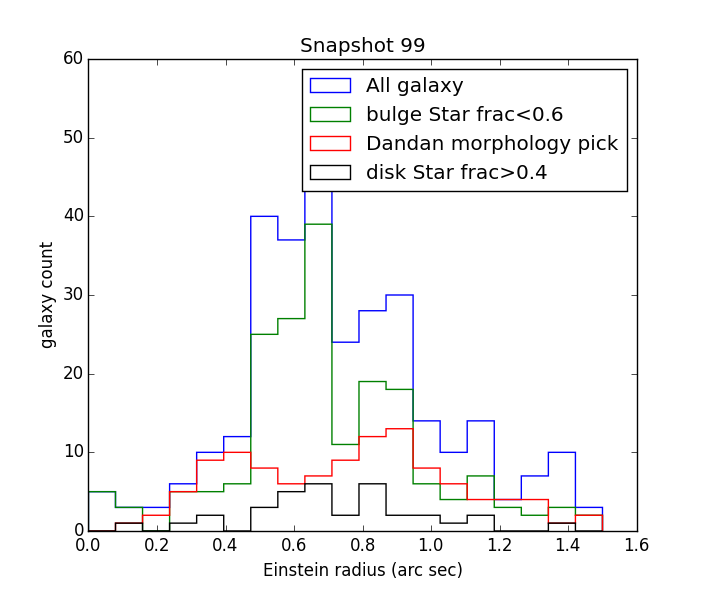
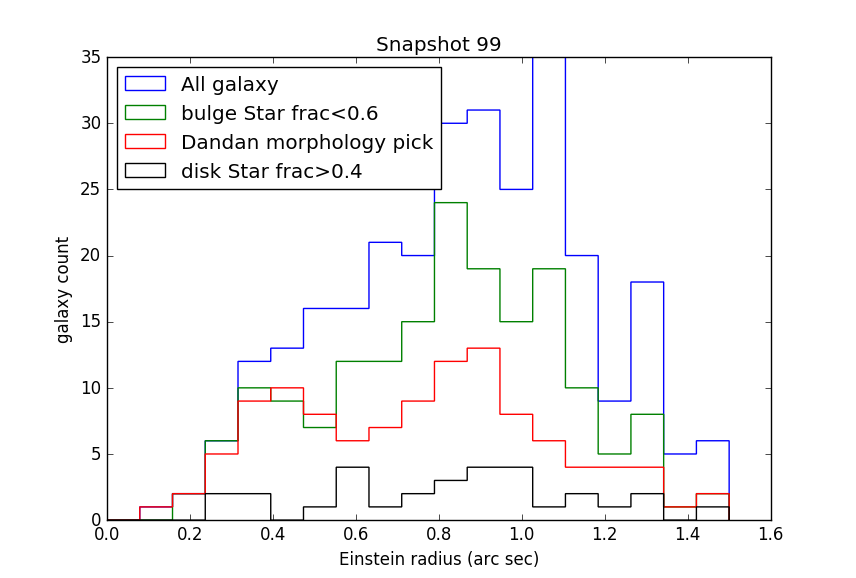
dan dan catalog full readout complete

diff --git a/python/Substructure/dan_crosscheck.py b/python/Substructure/dan_crosscheck.py
@@ -8,7 +8,8 @@ ssNumber = 99
 Snapshot_num = 'Snapshot_'+str(ssNumber)
 
 DanID = np.loadtxt('JenWei_table_disk_in_x.dat',dtype = 'int',unpack=True, usecols=[0])
-Dan_re = np.loadtxt('JenWei_table_disk_in_x.dat',dtype = 'float',unpack=True, usecols=[1])
+DanID.sort()
+#Dan_re = np.loadtxt('JenWei_table_disk_in_x.dat',dtype = 'float',unpack=True, usecols=[1])
 
 catalog = basePath+'/kinematics_'+str(ssNumber)+'.dat'
 GalaxyID = np.loadtxt(catalog,dtype = 'int',unpack=True, usecols=[0])
@@ -27,42 +28,55 @@ catalog_re = basePath+'/GalaxyRe_'+str(ssNumber)+'_x.dat'
 
 Galaxy_re = np.loadtxt(catalog_re,dtype='float',unpack=True,usecols=[1])
 
+## Dandan's full catalog
+
+catalog3 = basePath+'/Dandan_Lens'+str(ssNumber)+'.dat'
+LensID = np.loadtxt(catalog3,dtype = 'int',unpack=True, usecols=[0])
+Re = np.loadtxt(catalog3,dtype='float',unpack=True,usecols=[3])
+DMfrac = np.loadtxt(catalog3,dtype='float',unpack=True,usecols=[4])
+Mass = np.loadtxt(catalog3,dtype='float',unpack=True,usecols=[1])/0.704
+
 
 ''' cosmopara '''
 class cosmopara:
 	h = 0.704
 	OM = 0.27
 
-## Mass selection to Dandan's picl
+## Mass selection to Dandan's pick
+## also find DMfrac
 
-Dan_ms = []
-bulge_dan = []
-disk_dan = []
-Dan_V = []
-Dan_K =[]
-Dan2_re = []
+## now ID is sorted
+
+id_i = 11625
+id_e = 207298
+
+DanID_mc = np.intersect1d(DanID[DanID>=id_i],DanID[DanID<=id_e]) # mass cut
+
+# Re
+DanRe_mc = []
+DanMass_mc = []
+DanDMfrac_mc = []
+for i in range(LensID.size):
+	if LensID[i] in DanID_mc:
+		DanRe_mc.append(Re[i])
+		DanMass_mc.append(Mass[i])
+		DanDMfrac_mc.append(DMfrac[i])
+
+## Galaxy Re & DM frac
+
+# use index
+
+Galaxy_re = np.zeros(GalaxyID.size)*np.nan
+Galaxy_DMfrac = np.zeros(GalaxyID.size)*np.nan
 
 for i in range(GalaxyID.size):
-	if GalaxyID[i] in DanID:
-		Dan_ms.append(Galaxy_ms[i])
-		bulge_dan.append(bulge_frac[i])
-		disk_dan.append(disk_frac[i])
-		Dan_V.append(Galaxy_V[i])
-		Dan_K.append(Galaxy_K[i])
+	if GalaxyID[i] in LensID:
+		idx = list(LensID).index(GalaxyID[i])
+		Galaxy_re[i] = Re[idx]
+		Galaxy_DMfrac[i] = DMfrac[idx]
 
-print len(Dan_ms)
-
-for i in range(DanID.size):
-	if DanID[i] in GalaxyID:
-		Dan2_re.append(Dan_re[i])
-
-
-## find kinematic info & mass for Dandan's selection
-
-
-## mass
-
-## disk criteria
+print Galaxy_DMfrac.size, Galaxy_re.size
+#####
 
 cri = bulge_frac<0.6
 
@@ -72,22 +86,26 @@ print len(DiskID)
 disk_cri = disk_frac[cri]
 disk_ms = Galaxy_ms[cri]
 disk_re = Galaxy_re[cri]
+disk_DMfrac = Galaxy_DMfrac[cri]
 #disk_V = Galaxy_V[cri]
 #disk_K = Galaxy_K[cri]
 
 cri2 = disk_frac>0.4
 disk_ms2 = Galaxy_ms[cri2]
 disk_re2 = Galaxy_re[cri2]
+disk_DMfrac2 = Galaxy_DMfrac[cri2]
 
-bins = np.linspace(0,1.5,20)
+## find re and mass for DiskID
 
-plt.hist(Galaxy_re,bins,label = 'All galaxy',histtype='step')
-plt.hist(disk_re,bins,color = 'g',label = 'bulge Star frac<0.6',histtype='step')
-plt.hist(Dan2_re,bins,color = 'r', label='Dandan morphology pick',histtype='step')
+bins = np.linspace(0.2,1.0,20)
 
-plt.hist(disk_re2,bins,color = 'k',label = 'disk Star frac>0.4',histtype='step')
-plt.legend()
-plt.xlabel('Einstein radius (arc sec)')
+plt.hist(Galaxy_DMfrac,bins,label = 'All galaxy',histtype='step')
+plt.hist(disk_DMfrac,bins,color = 'g',label = 'bulge Star frac<0.6',histtype='step')
+plt.hist(DanDMfrac_mc,bins,color = 'r', label='Dandan morphology pick',histtype='step')
+
+plt.hist(disk_DMfrac2,bins,color = 'k',label = 'disk Star frac>0.4',histtype='step')
+plt.legend(loc =1)
+plt.xlabel('DM frac w/i Re')
 plt.ylabel('galaxy count')
 plt.title('Snapshot 99')
 plt.show()

diff --git a/python/Substructure/readout_DanCat.py b/python/Substructure/readout_DanCat.py
@@ -16,7 +16,7 @@ GalaxyID = np.loadtxt(galaxy_cata,dtype = 'int',unpack=True, usecols=[0])
 #GroupFirstSub = groupcat.loadHalos(basePath,ssNumber,fields = ['GroupFirstSub'])
 
 TotList = ['TotCata_Lens.list','TotCata_Phot.list']
-list_idx = 1
+list_idx = 0
 
 p_index = 0 # Proj index
 
@@ -24,33 +24,33 @@ CataList = open(catPath+Proj[p_index]+TotList[list_idx],'r')
 CataList = CataList.read().splitlines()
 
 ## Lens
-#field = ['SubfindID','mass','mass w/i R_ein','R_ein', 'DMfrac w/i R_ein']
-#f_idx = np.array([0,5,6,7,11])
+field = ['SubfindID','mass [M_sun/h]','mass w/i R_ein','R_ein', 'DMfrac w/i R_ein']
+f_idx = np.array([0,5,6,7,11])
 
 ## Phot
-field = ['SubfindID','mass','stellar mass','Sersic index', '1:Early(deV);0:Late type(Exp)']
-f_idx = np.array([0,3,4,18,24])
+#field = ['SubfindID','mass [M_sun/h]','stellar mass','Sersic index', '1:Early(deV);0:Late type(Exp)']
+#f_idx = np.array([0,3,4,18,24])
 
 
-new_cata = open(basePath+'Dandan_Phot'+str(ssNumber)+'.dat','w')
+new_cata = open(basePath+'Dandan_Lens'+str(ssNumber)+'.dat','w')
 #new_cata.write('# '+str(field)+'\n')
 
 for file_name in CataList:
 
-	cata_file = open(catPath+Proj[p_index]+file_name,'r')
+	cata_file = catPath+Proj[p_index]+file_name
 	#cata_file.readline() # get rid of the first line
 
 	frs_idx = np.loadtxt(cata_file,dtype = 'int',skiprows = 1,unpack=True, usecols=[1]) # indicate if is the first subhalo in halo
 
-	cata_file = open(catPath+Proj[p_index]+file_name,'r')
+	#cata_file = open(catPath+Proj[p_index]+file_name,'r')
 	groupID = np.loadtxt(cata_file,dtype = 'int',skiprows = 1,unpack=True, usecols=[0])
 	print groupID
 
-	cata_file = open(catPath+Proj[p_index]+file_name,'r')
+	#cata_file = open(catPath+Proj[p_index]+file_name,'r')
 	SubfindID = np.loadtxt(cata_file,dtype = 'int',skiprows=1,unpack=True, usecols=[0])
 
-	cata_file = open(catPath+Proj[p_index]+file_name,'r')
-	sub_table = np.loadtxt(cata_file,skiprows=1,unpack=True, usecols=[3,4,18,24])
+	#cata_file = open(catPath+Proj[p_index]+file_name,'r')
+	sub_table = np.loadtxt(cata_file,skiprows=1,unpack=True, usecols=[5,6,7,11])
 	valid_id = 1
 
 	if groupID.size >1:
@@ -64,11 +64,28 @@ for file_name in CataList:
 		
 		new_cata.write(str(SubfindID)+'	'+str(sub_table)[1:-1]+'\n')
 	
-	cata_file.close()
+	#cata_file.close()
 
 
 
 new_cata.close()
+
+sort_file = basePath+'Dandan_Lens'+str(ssNumber)+'.dat'
+unsort = np.loadtxt(sort_file)
+sort = unsort[np.argsort(unsort[:,0])]
+
+ids = sort[:,0].astype(int)
+print ids[:5]
+
+sort = sort[:,1:]
+
+write_file = open(basePath+'Dandan_Lens'+str(ssNumber)+'.dat','w')
+
+write_file.write('#'+str(field)[1:-1]+'\n')
+
+for i in range(sort.shape[0]):
+	write_file.write(str(ids[i])+'	'+str(sort[i,:])[1:-1]+'\n')
+
 
 #for i in 
 

diff --git a/python/Substructure/Dan_galaxycat.py b/python/Substructure/Dan_galaxycat.py
@@ -1,0 +1,22 @@
+import numpy as np
+
+# galaxy cat2
+
+basePath = '../../data/illustris_1/'
+ssNumber = 99
+
+catalog = basePath+'Galaxy_'+str(ssNumber)+'.dat'
+Galaxy_ID = np.loadtxt(catalog,dtype = 'int',unpack=True, usecols=[0])
+
+catalog2 = basePath+'Dandan_Lens'+str(ssNumber)+'.dat'
+LenID = np.loadtxt(catalog2,dtype = 'int',unpack=True, usecols=[0])
+Len_table = np.loadtxt(catalog2,dtype = 'float',unpack=True, usecols=[1:])
+
+
+catalog3 = basePath+'Dandan_Lens'+str(ssNumber)+'.dat'
+PhotID = np.loadtxt(catalog3,dtype = 'int',unpack=True, usecols=[0])
+Phot_table = np.loadtxt(catalog2,dtype = 'float',unpack=True, usecols=[1:])
+
+# create table
+table = np.zeros((Len_table.shape[0]+Phot_table.shape[0]-2,len(Galaxy_ID)))
+
